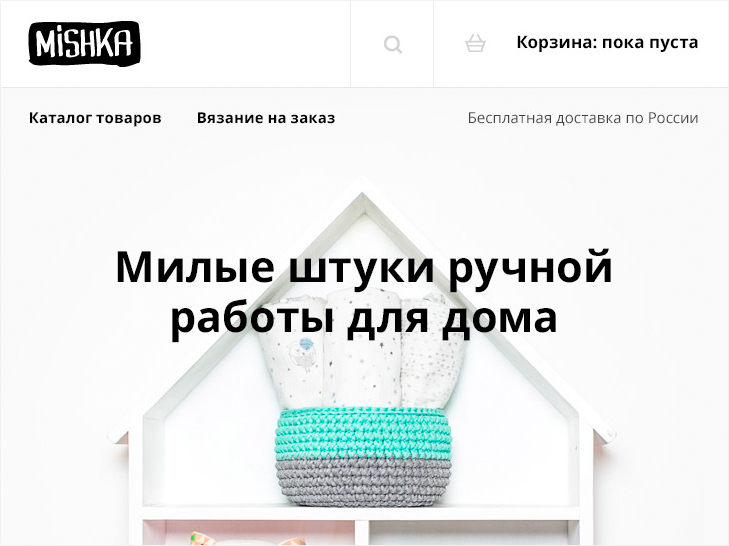
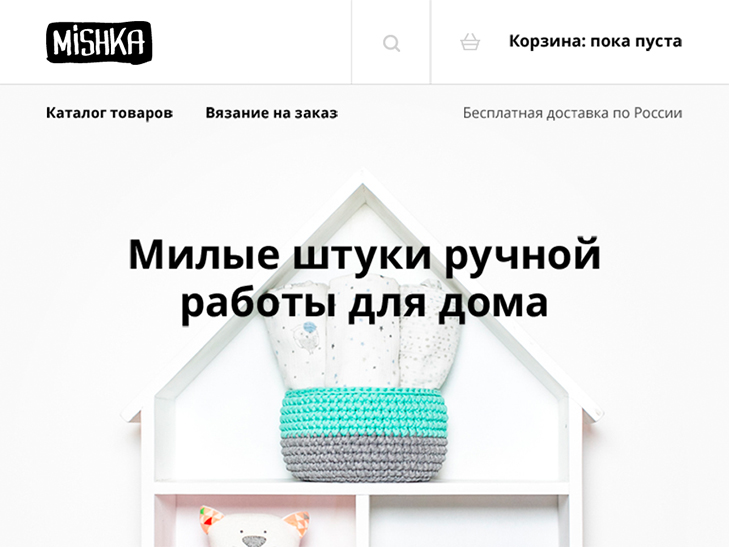
Ретинизация графики + половина планшетной

diff --git a/index.html b/index.html
@@ -48,7 +48,11 @@
             <div class="my-works__wrapper-image">
                 <figure>
                     <a href="" class="my-works__image-link">
-                      <img src="../img/Project_1_mobile.jpg" class="my-works__image" alt="Ссылка на страницу с проектом Мишка" title="Проект Мишка" width="300" height="478">
+                      <picture>
+                        <source media="(min-width: 1150px)" srcset="../img/Project_1_desktop.jpg 1x, ../img/Project_1_desktop@2x.jpg 2x">
+                        <source media="(min-width: 768px)" srcset="../img/Project_1_tablet.jpg 1x, ../img/Project_1_tablet@2x.jpg 2x">
+                        <img src="../img/Project_1_mobile.jpg" srcset="../img/Project_1_mobile@2x.jpg 2x" class="my-works__image" alt="Ссылка на страницу с проектом Мишка" title="Проект Мишка" width="300" height="478">
+                      </picture>
                     </a>
                   <figcaption>
                     <h3 class="my-works__image-figcaption"><a href="" class="my-works__image-figcaption-link">Проект “Мишка”</a></h3>
@@ -61,7 +65,11 @@
             <div class="my-works__wrapper-image">
                 <figure>
                     <a href="" class="my-works__image-link">
-                      <img src="../img/Project_2_mobile.jpg" class="my-works__image" alt="Ссылка на страницу с проектом Седона" title="Проект Седона" width="300" height="478">
+                        <picture>
+                            <source media="(min-width: 1150px)" srcset="../img/Project_2_desktop.jpg 1x, ../img/Project_2_desktop@2x.jpg 2x">
+                            <source media="(min-width: 768px)" srcset="../img/Project_2_tablet.jpg 1x, ../img/Project_2_tablet@2x.jpg 2x">
+                            <img src="../img/Project_2_mobile.jpg" srcset="../img/Project_2_mobile@2x.jpg 2x" class="my-works__image" alt="Ссылка на страницу с проектом Седона" title="Проект Седона" width="300" height="478">
+                          </picture>
                     </a>
                   <figcaption>
                     <h3 class="my-works__image-figcaption"><a href="" class="my-works__image-figcaption-link">Проект “Седона”</a></h3>

diff --git a/less/blocks/header.less b/less/blocks/header.less
@@ -28,3 +28,31 @@
   width: 100%;
   height: auto;
 }
+
+@media @tablets {
+  .header-main {
+    display: flex;
+    flex-flow: column wrap;
+    justify-content: space-between;
+    align-items: baseline;
+    width: 95%;
+    height: 355px;
+    max-width: 900px;
+    padding: 0 10px;
+  }
+  .header-title{
+    width: 45%;
+    margin: 15px 0;
+  }
+  .header-description {
+    width: 45%;
+  }
+  .header-main > picture {
+    width: 50%;
+    max-width: 365px;
+    margin: 20px;
+  }
+  .header-portfolio {
+    margin: 0 0;
+  }
+}

diff --git a/less/blocks/my-works.less b/less/blocks/my-works.less
@@ -31,9 +31,22 @@
   font-style: italic;
 }
 .my-works__wrapper-image {
+  max-width: 420px;
+  margin: 0 auto;
   margin-bottom: 25px;
 }
 .my-works__image {
   width: 100%;
   height: auto;
+}
+@media @tablets {
+  .my-works {
+    max-width: 768px;
+  }
+  .my-works__wrapper-image {
+    max-width: 768px;
+  }
+  .my-works__header {
+    margin: 10px auto 10px;
+  }
 }

diff --git a/less/style.less b/less/style.less
@@ -1,6 +1,6 @@
+@import "global/normalize.less";
 @import "global/fonts.less";
 @import "global/body.less";
-@import "global/normalize.less";
 @import "global/mixins.less";
 @import "blocks/about.less";
 @import "blocks/header.less";

diff --git a/less/blocks/socials.less b/less/blocks/socials.less
@@ -14,3 +14,14 @@
   text-decoration: none;
   color: #2937f0;
 }
+
+@media @tablets {
+  .socials {
+    width: 100%;
+    max-width: 768px;
+    padding: 15px 5px;
+  }
+  .socials__description {
+    padding: 10px 15px;
+  }
+}

diff --git a/less/global/body.less b/less/global/body.less
@@ -2,3 +2,10 @@ body {
   min-width: 320px;
   font-family: "Roboto", sans-serif;
 }
+@media @tablets {
+  main {
+    display: flex;
+    flex-flow: row wrap;
+    align-items: flex-end;
+  }
+}

diff --git a/less/blocks/main-footer.less b/less/blocks/main-footer.less
@@ -13,3 +13,9 @@
   font-weight: 100;
   margin: 7px 0;
 }
+
+@media @tablets {
+  .main-footer {
+    max-width: 768px;
+  }
+}

diff --git a/less/blocks/skills.less b/less/blocks/skills.less
@@ -15,3 +15,9 @@
   line-height: 29px;
   font-weight: 300;
 }
+
+@media @tablets {
+  .skills {
+    flex-basis: 45%;
+  }
+}

diff --git a/less/blocks/about.less b/less/blocks/about.less
@@ -15,3 +15,9 @@
     line-height: 29px;
     margin: 0;
 }
+
+@media @tablets {
+  .about-me {
+    flex-basis: 45%;
+  }
+}
